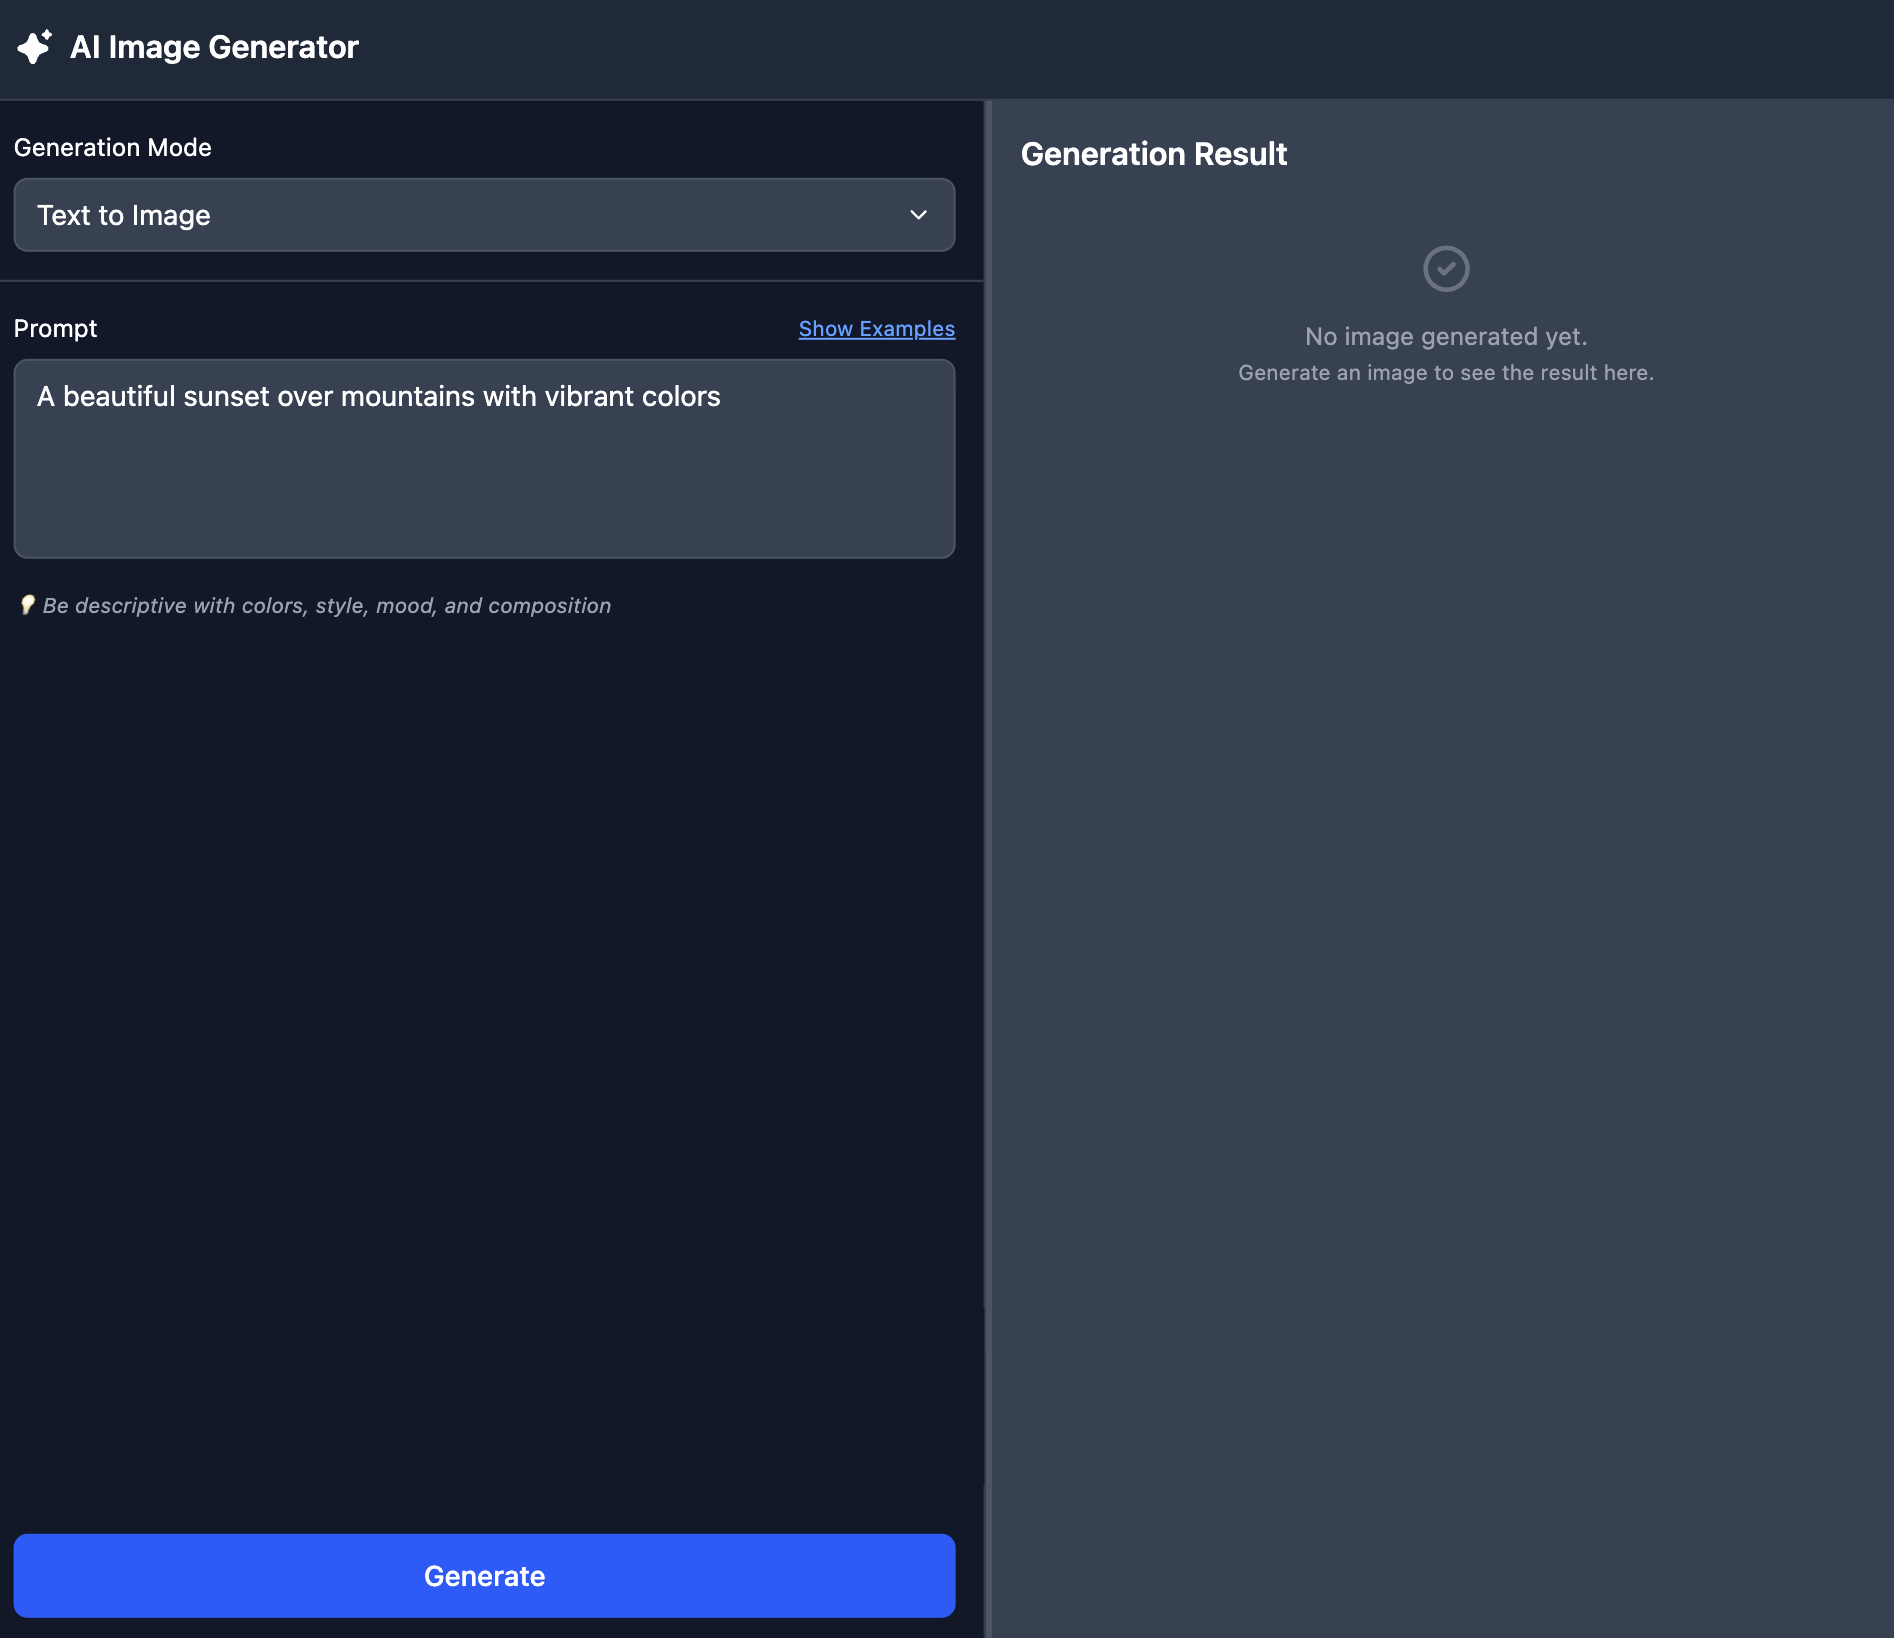
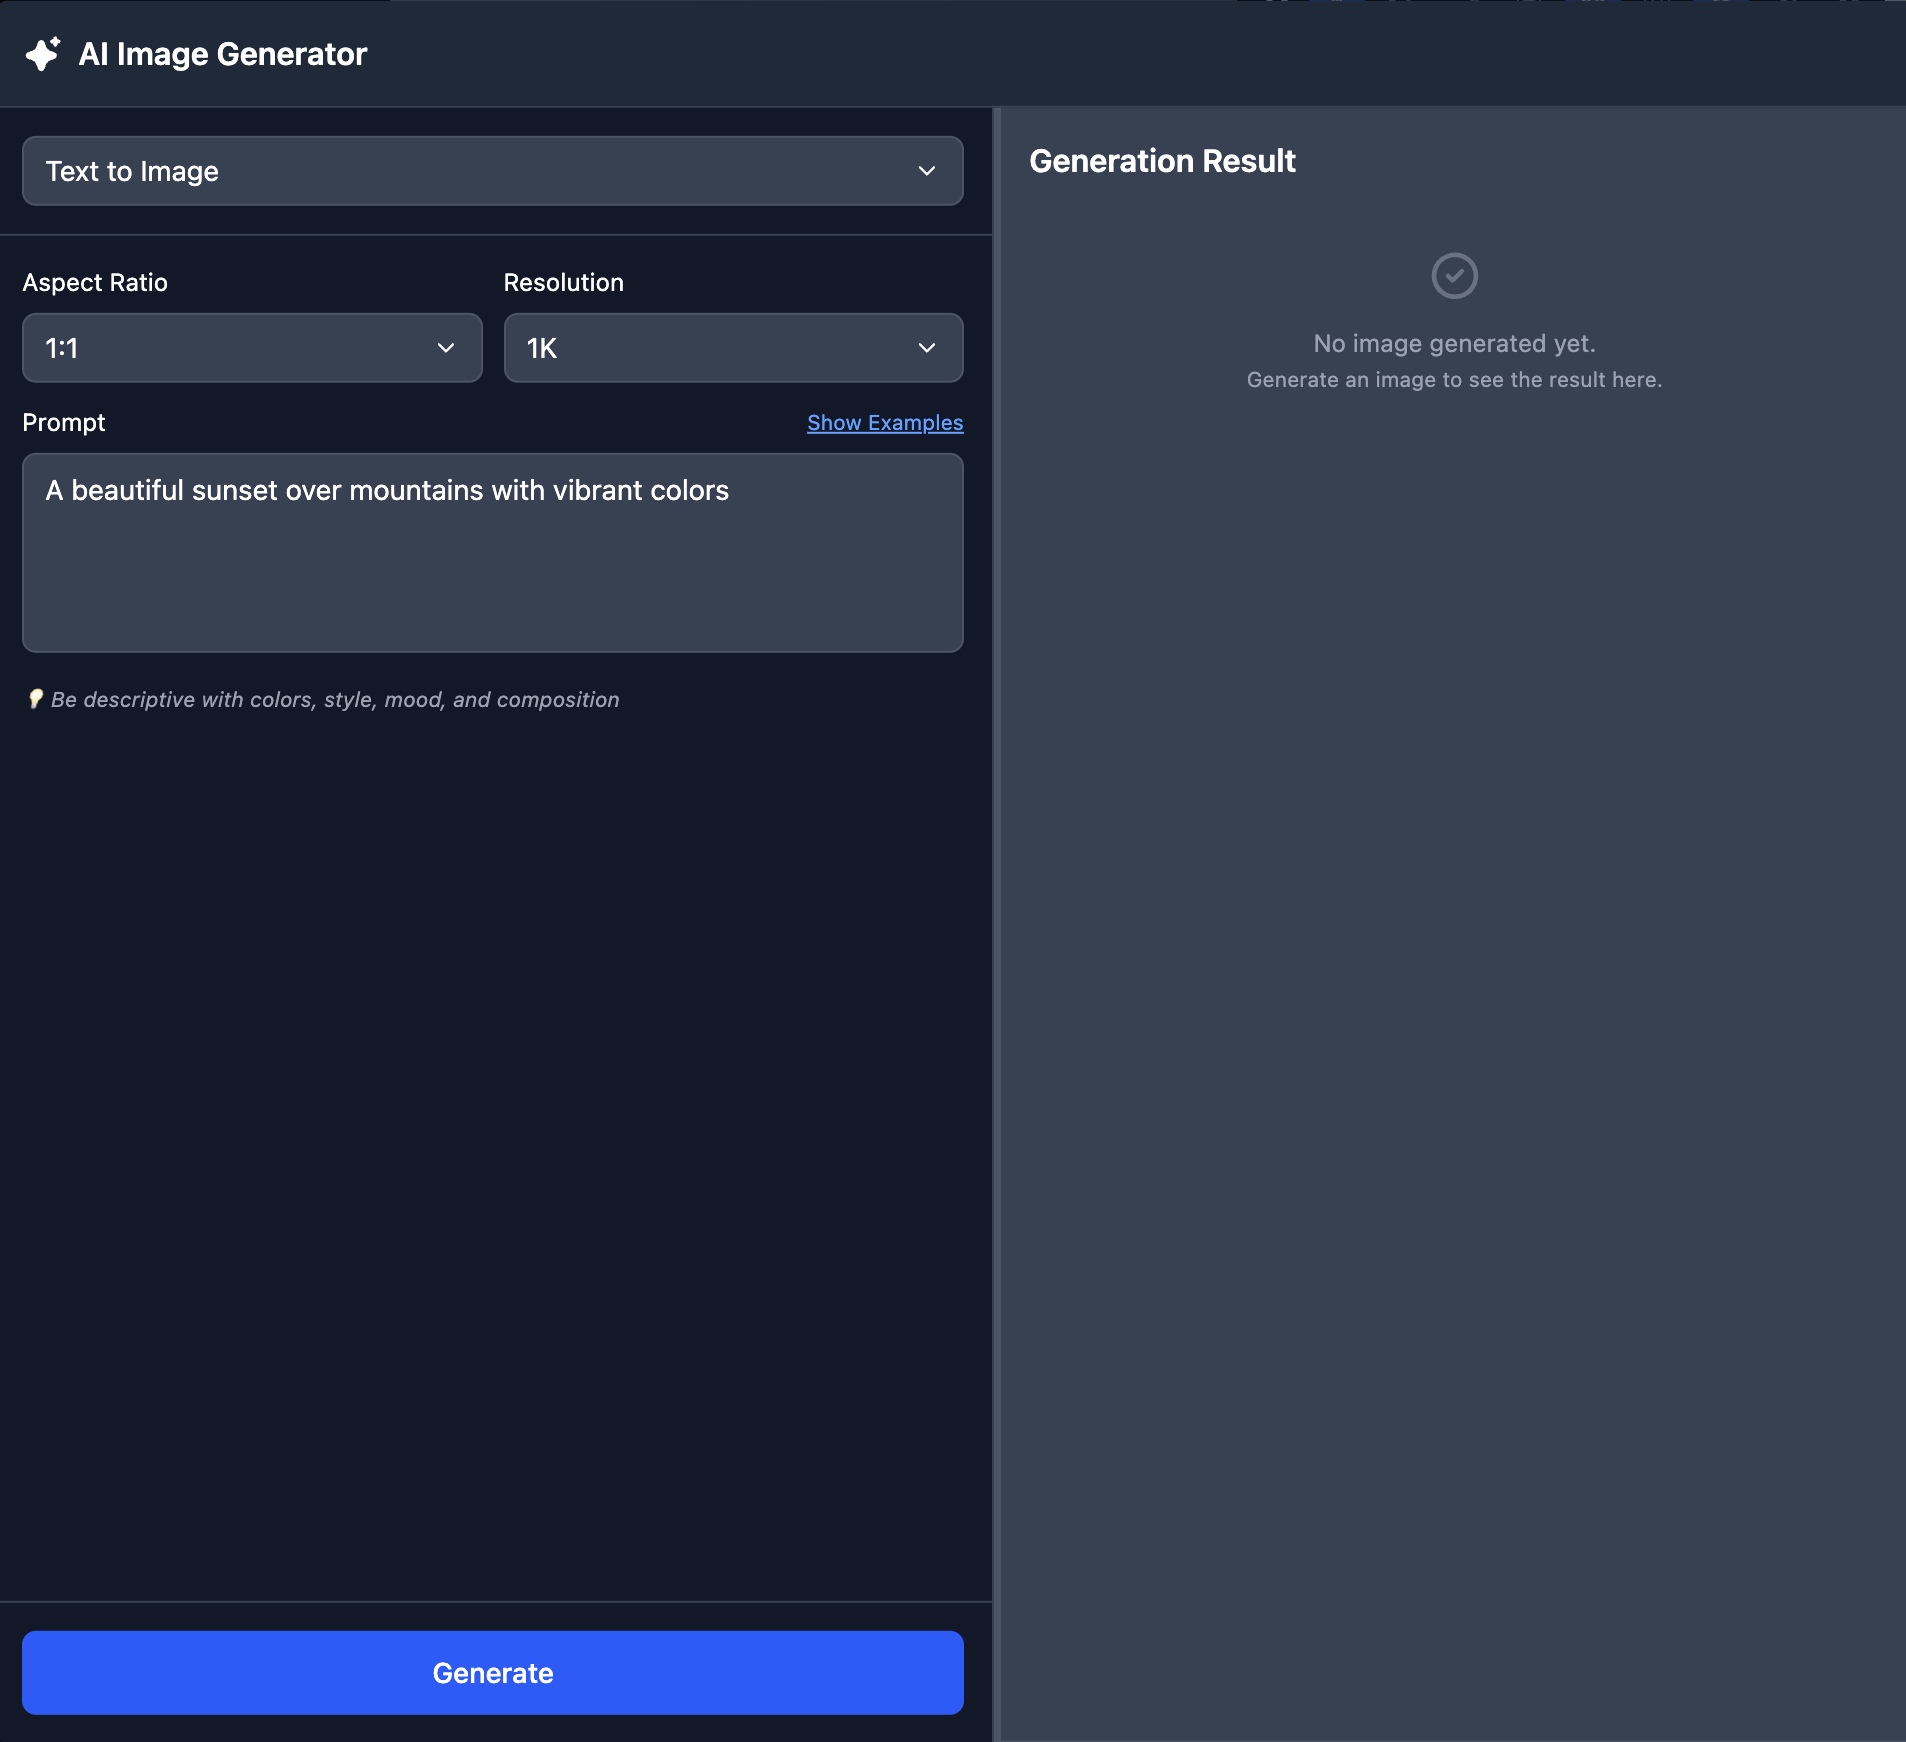
fix: 이미지 생성 추가

Changed region(s): [[0.0, 0.0, 0.6853, 0.4048], [0.0, 0.9341, 0.4984, 0.9963], [0.6542, 0.1245, 0.8722, 0.2491]]

diff --git a/i18n/en/docusaurus-plugin-content-docs/current/usage-guide/image-generation.md b/i18n/en/docusaurus-plugin-content-docs/current/usage-guide/image-generation.md
@@ -43,9 +43,10 @@ View the generated images.
 
 ## 2. Text to Image
 
-1. Enter your desired command in the prompt field.
+1. Select the desired aspect ratio and resolution.
+2. Enter your desired command in the prompt field.
    - You can select from examples in **Show Examples** to generate images.
-2. Click the **Generate button** to create the image.
+3. Click the **Generate button** to create the image.
 
 <div style={{display: 'flex', gap: '10px'}}>
   <img src="/img/usage-guide/3_8_4.png" alt="Image" style={{maxWidth: '50%'}} />
